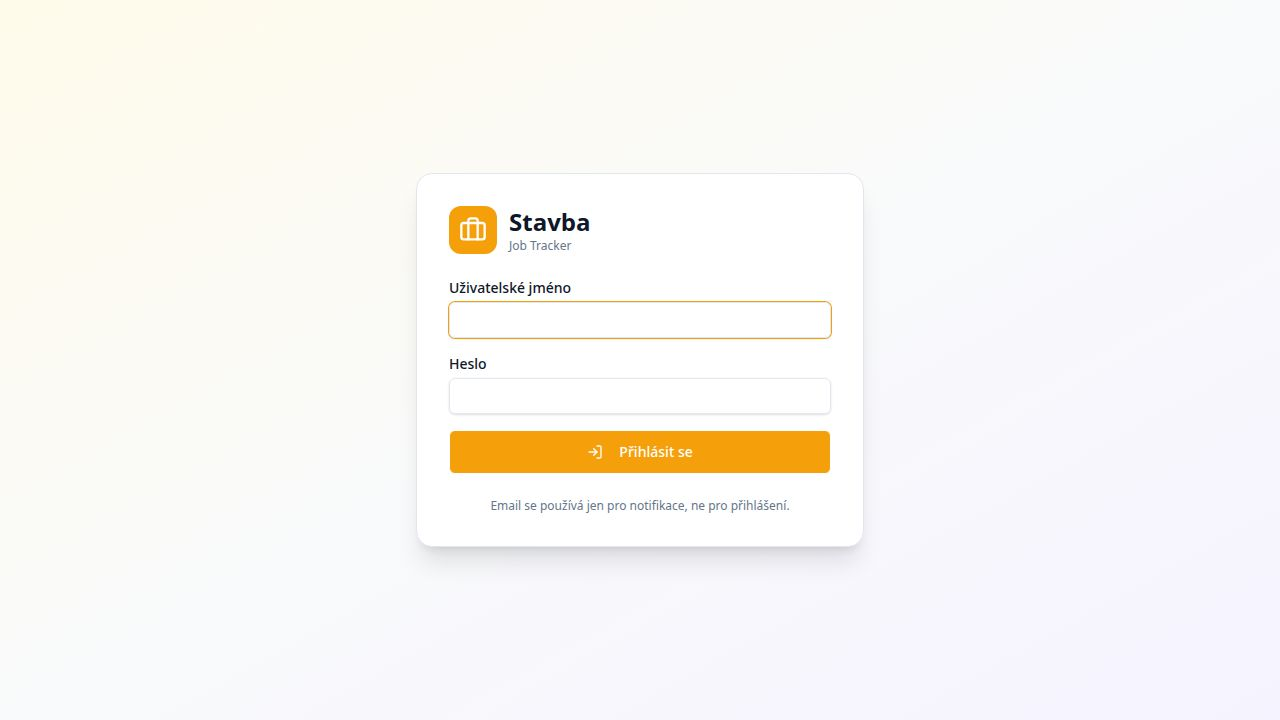
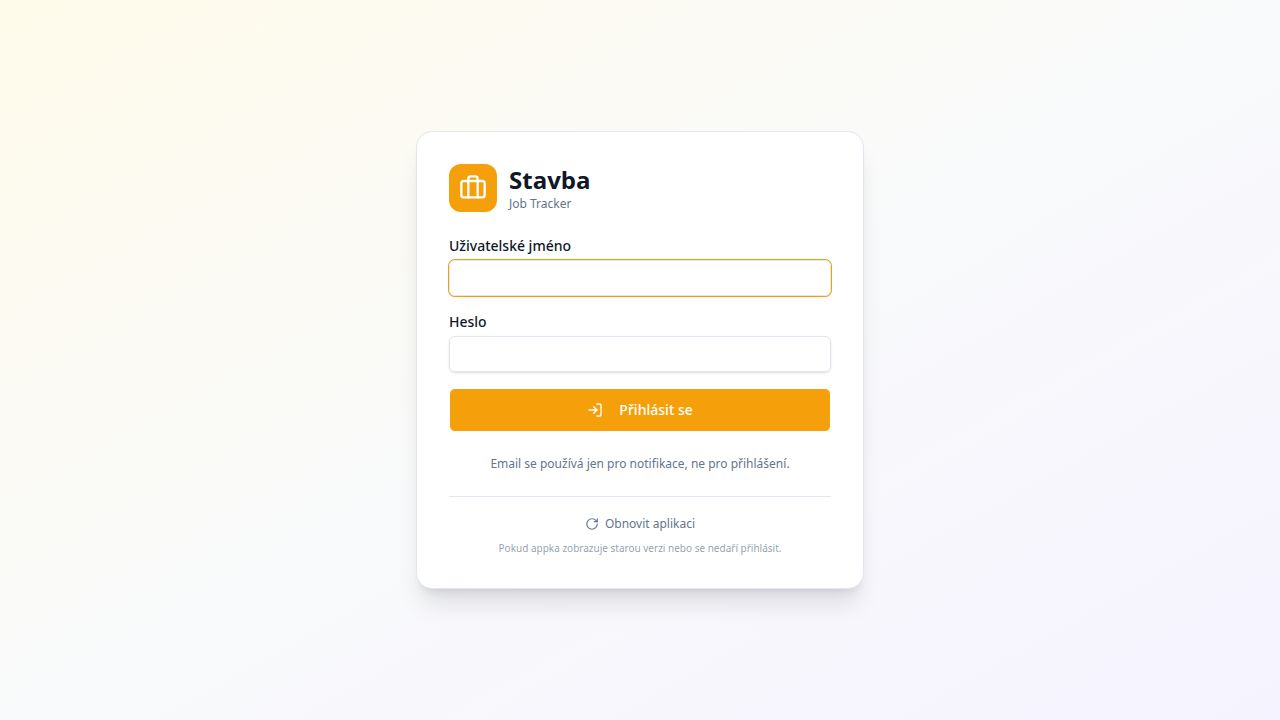
Improve PWA integration and login experience for mobile users
Enhance PWA manifest, service worker, authentication flow, and mobile UX for a seamless standalone app experience.

Replit-Commit-Author: Agent
Replit-Commit-Session-Id: cb6c3fa7-eae8-4b19-a9e3-986004a58b3d
Replit-Commit-Checkpoint-Type: full_checkpoint
Replit-Commit-Event-Id: 1d54e0e4-3234-4959-b6f9-94cdf7d359a7
Replit-Commit-Screenshot-Url: https://storage.googleapis.com/screenshot-production-us-central1/11f264fe-601d-4516-9ac8-eb8ad4373264/cb6c3fa7-eae8-4b19-a9e3-986004a58b3d/E6mnFpK
Replit-Helium-Checkpoint-Created: true

Changed region(s): [[0.3438, 0.2139, 0.6562, 0.825]]

diff --git a/artifacts/stavba/src/lib/pwa.ts b/artifacts/stavba/src/lib/pwa.ts
@@ -1,3 +1,13 @@
+// Lightweight debug logger for PWA / auth diagnostics. Logs are namespaced so
+// they're easy to filter in the browser console (filter by "[stavba]"). Kept on
+// in production on purpose — they're cheap and invaluable when debugging a
+// stuck-on-login or stale-cache report from a phone in the field.
+export function debugLog(scope: string, message: string, ...rest: unknown[]): void {
+  if (typeof console === "undefined") return;
+  // eslint-disable-next-line no-console
+  console.info(`[stavba:${scope}] ${message}`, ...rest);
+}
+
 // Clears the service-worker runtime cache that may hold authenticated API
 // responses ("stavba-api"). Devices are shared between crew members, so we
 // purge cached data on logout to ensure one user's data can't be served from
@@ -15,4 +25,32 @@ export async function clearApiCache(): Promise<void> {
   } catch {
     // Ignore — cache clearing is a best-effort safeguard.
   }
+}
+
+// Full app recovery for when a device is stuck on a stale cached version (the
+// classic "I see the old version / login won't go away" PWA problem). Deletes
+// every Cache Storage entry, unregisters all service workers, then hard-reloads
+// so the next load fetches a fresh shell from the network. Best-effort: any step
+// that fails is ignored so we always reach the reload.
+export async function hardRefreshApp(): Promise<void> {
+  debugLog("pwa", "hardRefreshApp: clearing caches + unregistering SWs");
+  if (typeof window === "undefined") return;
+  try {
+    if ("caches" in window) {
+      const keys = await caches.keys();
+      await Promise.all(keys.map((key) => caches.delete(key)));
+    }
+  } catch {
+    // ignore — best effort
+  }
+  try {
+    if ("serviceWorker" in navigator) {
+      const regs = await navigator.serviceWorker.getRegistrations();
+      await Promise.all(regs.map((reg) => reg.unregister()));
+    }
+  } catch {
+    // ignore — best effort
+  }
+  // Reload from the server, bypassing the bfcache.
+  window.location.reload();
 }

diff --git a/artifacts/stavba/src/components/pwa-update-prompt.tsx b/artifacts/stavba/src/components/pwa-update-prompt.tsx
@@ -1,6 +1,17 @@
 import { useRegisterSW } from "virtual:pwa-register/react";
 import { Button } from "@/components/ui/button";
 import { RefreshCw, X, CheckCircle2 } from "lucide-react";
+import { debugLog } from "@/lib/pwa";
+
+// How often to ask the browser to check for a new service worker (a new app
+// version). Phones left open all day on a site would otherwise never notice a
+// deploy until they're fully closed and reopened.
+const SW_UPDATE_CHECK_INTERVAL_MS = 60 * 60 * 1000; // 1 hour
+
+// Guard so the periodic update poller is started at most once for the page's
+// lifetime, even if the SW registration callback fires again (re-registration /
+// dev HMR). Prevents accumulating duplicate timers.
+let updatePollerStarted = false;
 
 // Shows a small banner when a new version of the app is available (prompt
 // update flow) or when the app is ready to work offline. Choosing "Aktualizovat"
@@ -11,7 +22,30 @@ export default function PwaUpdatePrompt() {
     offlineReady: [offlineReady, setOfflineReady],
     needRefresh: [needRefresh, setNeedRefresh],
     updateServiceWorker,
-  } = useRegisterSW();
+  } = useRegisterSW({
+    onRegisteredSW(swUrl, registration) {
+      debugLog("sw", `registered: ${swUrl}`);
+      if (!registration || updatePollerStarted) return;
+      updatePollerStarted = true;
+      // Periodically poll for a new deployed version so long-lived sessions
+      // (a phone open all day) still pick up updates.
+      setInterval(() => {
+        debugLog("sw", "periodic update check");
+        registration.update().catch(() => {
+          /* offline / transient — ignore, will retry next interval */
+        });
+      }, SW_UPDATE_CHECK_INTERVAL_MS);
+    },
+    onRegisterError(error) {
+      debugLog("sw", "registration failed", error);
+    },
+    onNeedRefresh() {
+      debugLog("sw", "new version available (needRefresh)");
+    },
+    onOfflineReady() {
+      debugLog("sw", "app ready to work offline");
+    },
+  });
 
   const close = () => {
     setOfflineReady(false);

diff --git a/artifacts/stavba/src/pages/login.tsx b/artifacts/stavba/src/pages/login.tsx
@@ -1,14 +1,17 @@
 import { useState } from "react";
-import { Briefcase, LogIn, ShieldAlert } from "lucide-react";
+import { useLocation } from "wouter";
+import { Briefcase, LogIn, ShieldAlert, RotateCw } from "lucide-react";
 import { useLogin, useSetupFirstAdmin } from "@workspace/api-client-react";
 import { Button } from "@/components/ui/button";
 import { Input } from "@/components/ui/input";
 import { useToast } from "@/hooks/use-toast";
 import { useAuth } from "@/hooks/use-auth";
+import { debugLog, hardRefreshApp } from "@/lib/pwa";
 
 export default function Login() {
   const { needsSetup, refresh } = useAuth();
   const { toast } = useToast();
+  const [, setLocation] = useLocation();
   const login = useLogin();
   const setup = useSetupFirstAdmin();
 
@@ -17,11 +20,21 @@ export default function Login() {
   const [name, setName] = useState("");
   const [email, setEmail] = useState("");
 
+  // After a successful login/setup, re-check /api/auth/me and send the user
+  // straight to the dashboard ("/"), so the router never lingers on the login
+  // view and the entry point matches the PWA start_url.
+  const goToApp = () => {
+    debugLog("auth", "login success → redirect to dashboard (/)");
+    refresh();
+    setLocation("/");
+  };
+
   const handleLogin = (e: React.FormEvent) => {
     e.preventDefault();
     if (!username || !password) return;
+    debugLog("auth", "login attempt");
     login.mutate({ data: { username, password } }, {
-      onSuccess: () => { refresh(); toast({ title: `Vítej, ${username}` }); },
+      onSuccess: () => { goToApp(); toast({ title: `Vítej, ${username}` }); },
       onError: () => toast({ title: "Přihlášení selhalo", description: "Špatné jméno nebo heslo", variant: "destructive" }),
     });
   };
@@ -31,7 +44,7 @@ export default function Login() {
     if (!username || !password || !name) return;
     if (password.length < 6) { toast({ title: "Heslo musí mít aspoň 6 znaků", variant: "destructive" }); return; }
     setup.mutate({ data: { username, password, name, email: email || null } }, {
-      onSuccess: () => { refresh(); toast({ title: "Admin účet vytvořen" }); },
+      onSuccess: () => { goToApp(); toast({ title: "Admin účet vytvořen" }); },
       onError: (err: any) => toast({ title: "Nepodařilo se vytvořit účet", description: err?.message, variant: "destructive" }),
     });
   };
@@ -96,6 +109,19 @@ export default function Login() {
             </p>
           </form>
         )}
+
+        <div className="mt-6 pt-4 border-t text-center">
+          <button
+            type="button"
+            onClick={() => { void hardRefreshApp(); }}
+            className="inline-flex items-center gap-1.5 text-xs text-muted-foreground hover:text-foreground"
+          >
+            <RotateCw className="w-3.5 h-3.5" /> Obnovit aplikaci
+          </button>
+          <p className="text-[10px] text-muted-foreground/70 mt-1">
+            Pokud appka zobrazuje starou verzi nebo se nedaří přihlásit.
+          </p>
+        </div>
       </div>
     </div>
   );

diff --git a/artifacts/stavba/src/pages/settings.tsx b/artifacts/stavba/src/pages/settings.tsx
@@ -28,6 +28,7 @@ import {
   applyTextColor,
   type CompanySettings,
 } from "@/lib/company-settings";
+import { hardRefreshApp } from "@/lib/pwa";
 
 const MAX_LOGO_BYTES = 500 * 1024;
 const MAX_SIGNATURE_BYTES = 500 * 1024;
@@ -824,6 +825,28 @@ export default function Settings() {
       {can("manageUsers") && <EmailSettingsCard />}
 
       {can("manageUsers") && <BackupCard />}
+
+      <Card>
+        <CardHeader>
+          <CardTitle className="flex items-center gap-2 text-base">
+            <RefreshCw className="h-4 w-4" /> Obnovit aplikaci
+          </CardTitle>
+        </CardHeader>
+        <CardContent className="space-y-3">
+          <p className="text-sm text-muted-foreground">
+            Pokud aplikace zobrazuje starou verzi, neaktualizuje se nebo se chová
+            divně, vymažte uloženou mezipaměť a načtěte ji znovu ze serveru.
+          </p>
+          <Button
+            type="button"
+            variant="outline"
+            className="gap-2 h-11"
+            onClick={() => { void hardRefreshApp(); }}
+          >
+            <RefreshCw className="h-4 w-4" /> Vymazat mezipaměť a obnovit
+          </Button>
+        </CardContent>
+      </Card>
     </div>
   );
 }

diff --git a/artifacts/stavba/src/components/layout.tsx b/artifacts/stavba/src/components/layout.tsx
@@ -95,7 +95,7 @@ export function Layout({ children }: { children: React.ReactNode }) {
       </aside>
 
       {/* Mobile Header */}
-      <header className="md:hidden border-b bg-card px-4 py-2 flex items-center justify-between">
+      <header className="md:hidden border-b bg-card px-4 pb-2 pt-[calc(0.5rem+env(safe-area-inset-top,0px))] flex items-center justify-between sticky top-0 z-30">
         <h1 className="text-base font-bold text-primary flex items-center gap-2">
           <Briefcase className="h-5 w-5" /> Stavba
         </h1>
@@ -104,15 +104,16 @@ export function Layout({ children }: { children: React.ReactNode }) {
             <span className={`px-1.5 py-0.5 rounded text-[10px] font-medium ${ROLE_BADGE[role || "guest"]}`}>
               {user.name}
             </span>
-            <Button variant="ghost" size="icon" onClick={handleLogout} className="h-8 w-8">
-              <LogOut className="h-4 w-4" />
+            <Button variant="ghost" size="icon" onClick={handleLogout} className="h-10 w-10" aria-label="Odhlásit">
+              <LogOut className="h-5 w-5" />
             </Button>
           </div>
         )}
       </header>
 
-      {/* Main Content */}
-      <main className="flex-1 flex flex-col pb-16 md:pb-0 relative min-h-[100dvh]">
+      {/* Main Content. Bottom padding clears the fixed mobile nav (h-16) plus the
+          iOS home-indicator safe area so content is never hidden behind it. */}
+      <main className="flex-1 flex flex-col pb-[calc(4rem+env(safe-area-inset-bottom,0px))] md:pb-0 relative min-h-[100dvh]">
         {role === "guest" && (
           <div className="bg-amber-50 dark:bg-amber-950/30 border-b border-amber-200 dark:border-amber-900 px-4 py-2 text-xs text-amber-800 dark:text-amber-200 flex items-center gap-2">
             <Eye className="w-3.5 h-3.5" />
@@ -123,7 +124,7 @@ export function Layout({ children }: { children: React.ReactNode }) {
 
         {/* Global FAB on mobile for fast add (writers only) */}
         {can("write") && (
-          <div className="fixed bottom-20 right-4 md:bottom-8 md:right-8 z-50">
+          <div className="fixed bottom-[calc(5rem+env(safe-area-inset-bottom,0px))] right-4 md:bottom-8 md:right-8 z-50">
             <Link href="/jobs/new">
               <Button
                 size="icon"

diff --git a/artifacts/stavba/src/hooks/use-auth.tsx b/artifacts/stavba/src/hooks/use-auth.tsx
@@ -1,6 +1,7 @@
-import { createContext, useContext, type ReactNode } from "react";
+import { createContext, useContext, useEffect, type ReactNode } from "react";
 import { useGetMe, getGetMeQueryKey } from "@workspace/api-client-react";
 import { useQueryClient } from "@tanstack/react-query";
+import { debugLog } from "@/lib/pwa";
 
 export type Role = "guest" | "master" | "admin";
 
@@ -38,6 +39,16 @@ export function AuthProvider({ children }: { children: ReactNode }) {
 
   const user = (data?.user as AuthUser | undefined) ?? null;
   const role = user?.role ?? null;
+
+  // Diagnostics: log whenever the auth state is (re)loaded from /api/auth/me, so
+  // a stuck-on-login or bounced-after-reload report can be traced in the console.
+  useEffect(() => {
+    if (isLoading) return;
+    debugLog(
+      "auth",
+      `state loaded: authenticated=${data?.authenticated ?? false} role=${role ?? "—"} needsSetup=${data?.needsSetup ?? false}`,
+    );
+  }, [isLoading, data?.authenticated, data?.needsSetup, role]);
 
   const can: AuthCtx["can"] = (action) => {
     if (!role) return false;

diff --git a/artifacts/stavba/index.html b/artifacts/stavba/index.html
@@ -2,7 +2,7 @@
 <html lang="cs">
   <head>
     <meta charset="UTF-8" />
-    <meta name="viewport" content="width=device-width, initial-scale=1.0, maximum-scale=1" />
+    <meta name="viewport" content="width=device-width, initial-scale=1.0, maximum-scale=1, viewport-fit=cover" />
     <title>Stavba – Evidence zakázek</title>
     <meta name="description" content="Stavba – evidence stavebních zakázek, úkolů a docházky pro Modvolt s.r.o." />
     <meta name="robots" content="index, follow" />

diff --git a/artifacts/stavba/src/components/mobile-nav.tsx b/artifacts/stavba/src/components/mobile-nav.tsx
@@ -113,7 +113,7 @@ export function MobileNav({ location, isActive, can }: Props) {
 
   return (
     <>
-      <nav className="md:hidden fixed bottom-0 left-0 right-0 border-t bg-card flex items-center justify-around h-16 px-1 z-40 safe-area-bottom">
+      <nav className="md:hidden fixed bottom-0 left-0 right-0 border-t bg-card flex items-center justify-around h-[calc(4rem+env(safe-area-inset-bottom,0px))] pb-[env(safe-area-inset-bottom,0px)] px-1 z-40">
         {quickItems.map((item) => {
           const active = isActive(item);
           return (

diff --git a/artifacts/stavba/vite.config.ts b/artifacts/stavba/vite.config.ts
@@ -42,6 +42,7 @@ export default defineConfig(async ({ command }) => {
         registerType: "prompt",
         includeAssets: ["favicon.svg", "apple-touch-icon.png", "robots.txt"],
         manifest: {
+          id: basePath,
           name: "Stavba – Evidence zakázek",
           short_name: "Stavba",
           description:

diff --git a/.agents/memory/pwa-safe-area-utilities.md b/.agents/memory/pwa-safe-area-utilities.md
@@ -1,0 +1,28 @@
+---
+name: PWA safe-area (iOS notch) padding in Tailwind v4
+description: Why to inline env(safe-area-inset-*) calc() instead of a flat @utility, and the fixed-bottom-nav height pattern
+---
+
+# Safe-area insets for installed PWA (iOS standalone)
+
+For the "Add to Home Screen" standalone PWA, fixed top/bottom chrome must respect
+the device safe areas (notch / status bar / home indicator). Requires
+`viewport-fit=cover` in the index.html viewport meta, then `env(safe-area-inset-*)`
+in CSS.
+
+**Pitfall:** do NOT define a Tailwind v4 `@utility safe-area-top { padding-top:
+env(safe-area-inset-top) }`. A flat utility *overrides* any existing padding
+utility (e.g. `py-2`) on the same element, so on non-notch devices the element
+loses its baseline padding (inset = 0). Instead inline an **additive** arbitrary
+value so the base padding is preserved:
+`pt-[calc(0.5rem+env(safe-area-inset-top,0px))]`.
+
+**Fixed bottom nav pattern:** to keep the bar's content area constant while the
+bar grows over the home indicator, set the height to include the inset AND pad
+the bottom by it:
+`h-[calc(4rem+env(safe-area-inset-bottom,0px))] pb-[env(safe-area-inset-bottom,0px)]`.
+Make the scrollable content's bottom padding match
+(`pb-[calc(4rem+env(safe-area-inset-bottom,0px))]`) so nothing hides behind it.
+
+**Why:** the override behaviour is silent — it only shows up as missing padding
+on real hardware, never in a desktop preview or typecheck.

diff --git a/.agents/memory/MEMORY.md b/.agents/memory/MEMORY.md
@@ -9,6 +9,7 @@
 - [Vite build env requirements](vite-build-env-requirements.md) — stavba vite.config must only require PORT when command===serve (not build), else Docker/Coolify build fails; also raise PWA workbox precache cap above the 2.3MB main bundle.
 - [Coolify one-shot init container](coolify-oneshot-init-container.md) — init/one-shot compose services (e.g. createbuckets) must set restart:"no" + idempotent cmd + exit 0, else Coolify deploy fails with "No such container".
 - [Proxy secure cookie](proxy-secure-cookie.md) — behind Coolify(Traefik)→nginx→API, inner nginx must pass through X-Forwarded-Proto (not $scheme) + use cookie.secure:"auto", else login silently fails (cookie dropped).
+- [PWA safe-area utilities](pwa-safe-area-utilities.md) — iOS notch: use viewport-fit=cover + inline additive calc(env(safe-area-inset-*)); never a flat @utility (silently overrides base padding on non-notch).
 - [Pathless router middleware leak](pathless-router-middleware-leak.md) — sub-routers mount pathlessly; a pathless router.use(auth) gates EVERY request, breaking login. Gate per-route.
 - [Database backup system](backup-system.md) — pg_dump -Fc to object storage backups/ prefix; never serve via generic /storage/objects/* (guests can GET); download only via admin /api/backups/:id/download.
 - [api-zod body validator names](api-zod-body-names.md) — server imports Zod validators by PascalCase(operationId)+Body (e.g. UpdateEmailSettingsBody), NOT component schema names (those are types only → TS2693).